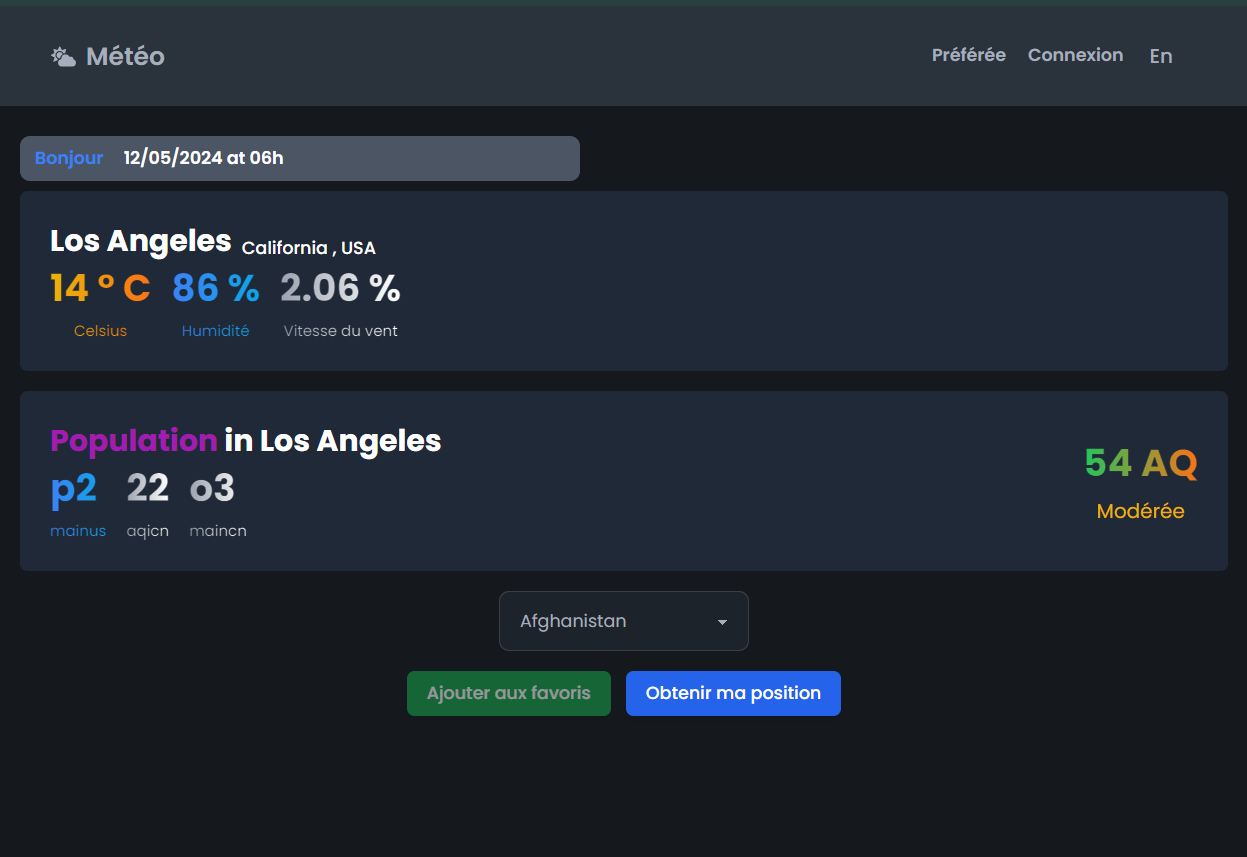
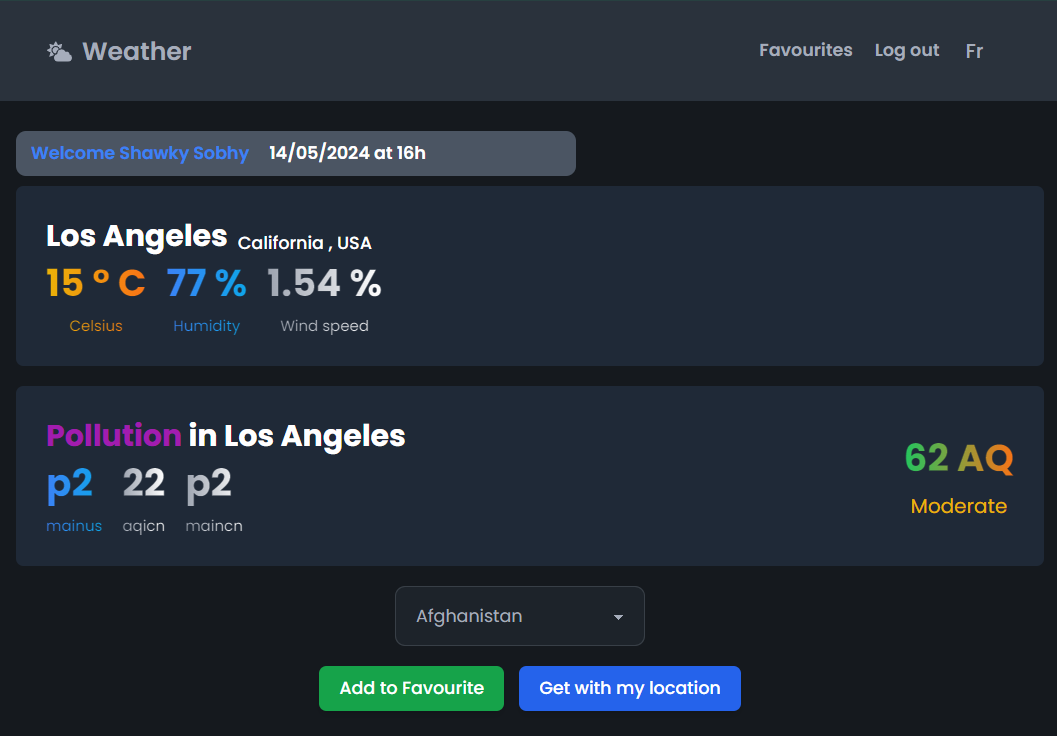
Fix spelling mistake

diff --git a/src/ui/PollutionContainer.jsx b/src/ui/PollutionContainer.jsx
@@ -1,7 +1,7 @@
 import { getAirQualityLevel } from '../helper/helper';
 import NumericTitle from './NumericTitle';
 import { useTranslation } from 'react-i18next';
-function PopulationContainer({ current }) {
+function PollutionContainer({ current }) {
 	const {
 		pollution: { maincn, aqicn, aqius, mainus },
 	} = current.current;
@@ -12,7 +12,7 @@ function PopulationContainer({ current }) {
 		<div className='flex flex-row justify-between w-full p-3 space-y-4 text-white bg-gray-800 rounded-md md:p-6 md:space-x-3 '>
 			<div className='flex-col space-y-1'>
 				<p className='text-2xl font-bold'>
-					<span className='text-fuchsia-700'>Population</span> in{' '}
+					<span className='text-fuchsia-700'>Pollution</span> in{' '}
 					<span>{city}</span>
 				</p>
 				<div className='flex items-center space-x-4'>
@@ -46,4 +46,4 @@ function PopulationContainer({ current }) {
 	);
 }
 
-export default PopulationContainer;
+export default PollutionContainer;

diff --git a/src/page/Favourites.jsx b/src/page/Favourites.jsx
@@ -1,5 +1,5 @@
 import { Navbar, FavouriteList } from '../components';
-import { WeatherContainer, PopulationContainer } from '../ui';
+import { WeatherContainer, PollutionContainer } from '../ui';
 import { useCurrentCity } from '../hooks';
 function Favourites() {
 	const currentCityData = useCurrentCity();
@@ -9,7 +9,7 @@ function Favourites() {
 			<div className='min-h-screen px-4 py-8 mx-auto bg-base-300 max-w-7xl'>
 				<div className='flex flex-col items-start space-y-4 lg:space-y-0 lg:flex-row lg:space-x-4 '>
 					<WeatherContainer current={currentCityData} />
-					<PopulationContainer current={currentCityData} />
+					<PollutionContainer current={currentCityData} />
 				</div>
 				<FavouriteList />
 			</div>

diff --git a/src/page/Home.jsx b/src/page/Home.jsx
@@ -1,4 +1,4 @@
-import { WeatherContainer, PopulationContainer } from '../ui';
+import { WeatherContainer, PollutionContainer } from '../ui';
 import { Navbar, CityPicker } from '../components';
 import { useCurrentCity } from '../hooks';
 import Greeting from '../ui/Greeting';
@@ -11,7 +11,7 @@ function Home() {
 				<Greeting />
 				<div className='flex flex-col items-start space-y-4 lg:space-y-0 lg:flex-row lg:space-x-4 '>
 					<WeatherContainer current={currentCityData} />
-					<PopulationContainer current={currentCityData} />
+					<PollutionContainer current={currentCityData} />
 				</div>
 				<CityPicker />
 			</div>

diff --git a/src/ui/index.js b/src/ui/index.js
@@ -1,11 +1,11 @@
-import PopulationContainer from './PopulationContainer';
+import PollutionContainer from './PollutionContainer';
 import WeatherContainer from './WeatherContainer';
 import Spinner from './Spinner';
 import NumericTitle from './NumericTitle';
 import Greeting from './Greeting';
 import CityTitleLocation from './CityTitleLocation';
 export {
-	PopulationContainer,
+	PollutionContainer,
 	WeatherContainer,
 	Spinner,
 	NumericTitle,

diff --git a/README.md b/README.md
@@ -5,7 +5,7 @@
 - [x] implement **Auth** with Google which provide info could be useful in feature expansion
 - [x] Only **authenticated** users can save and manage their favourite cities (delete /add)
 
-- [x] with **AqAir** api get weather information and population of specific city
+- [x] with **AqAir** api get weather information and Pollution of specific city
 - [x] get weather info by using **geolocation** because not all cities supported with api
 
 - [x] handle case when user to try to add same city twice to favourite list to prevent duplicate
@@ -19,7 +19,7 @@
 
 ---
 
-- [ ] previous version **Air Quality** api provide historical data and forecast of weather and population with get city end point i see it in docs but in current version in postman provide only **current values** only with paid version i think,
+- [ ] previous version **Air Quality** api provide historical data and forecast of weather and pollution with get city end point i see it in docs but in current version in postman provide only **current values** only with paid version i think,
 
 - [ ] Unfortunately, the map of weather i suffers, and after searching,but I think i found soluation with useing leaflet map nad openweather map api to make this feature ,and due to time constraints, i haven't complete, and i hope you take that into consideration."
 
